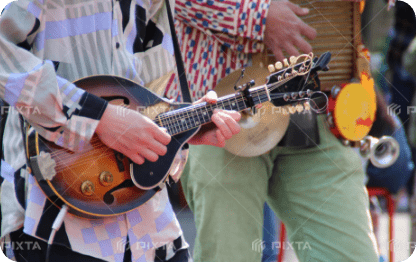
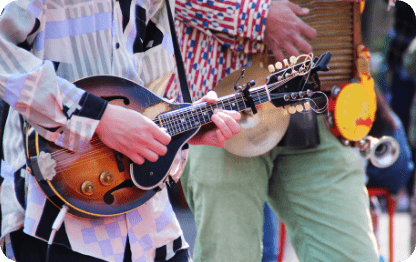
クリエイター扉画像差替

diff --git a/index.html b/index.html
@@ -192,7 +192,10 @@ BACKSTAGE限定コンテンツが視聴、
             </p>
           </div>
 
-          <img class="fadeIn" style="--data-delay:0.3s" src="./img/top/top_creator_img.png" />
+          <picture class="fadeIn" style="--data-delay:0.5s">
+            <source srcset="./img/top/top_creator_img.png 1x, ./img/top/top_creator_img@2x.png 2x" />
+              <img class="fadeIn" style="--data-delay:0.3s" src="./img/top/top_creator_img.png" />
+          </picture>
         </div>
 
         <ul>
